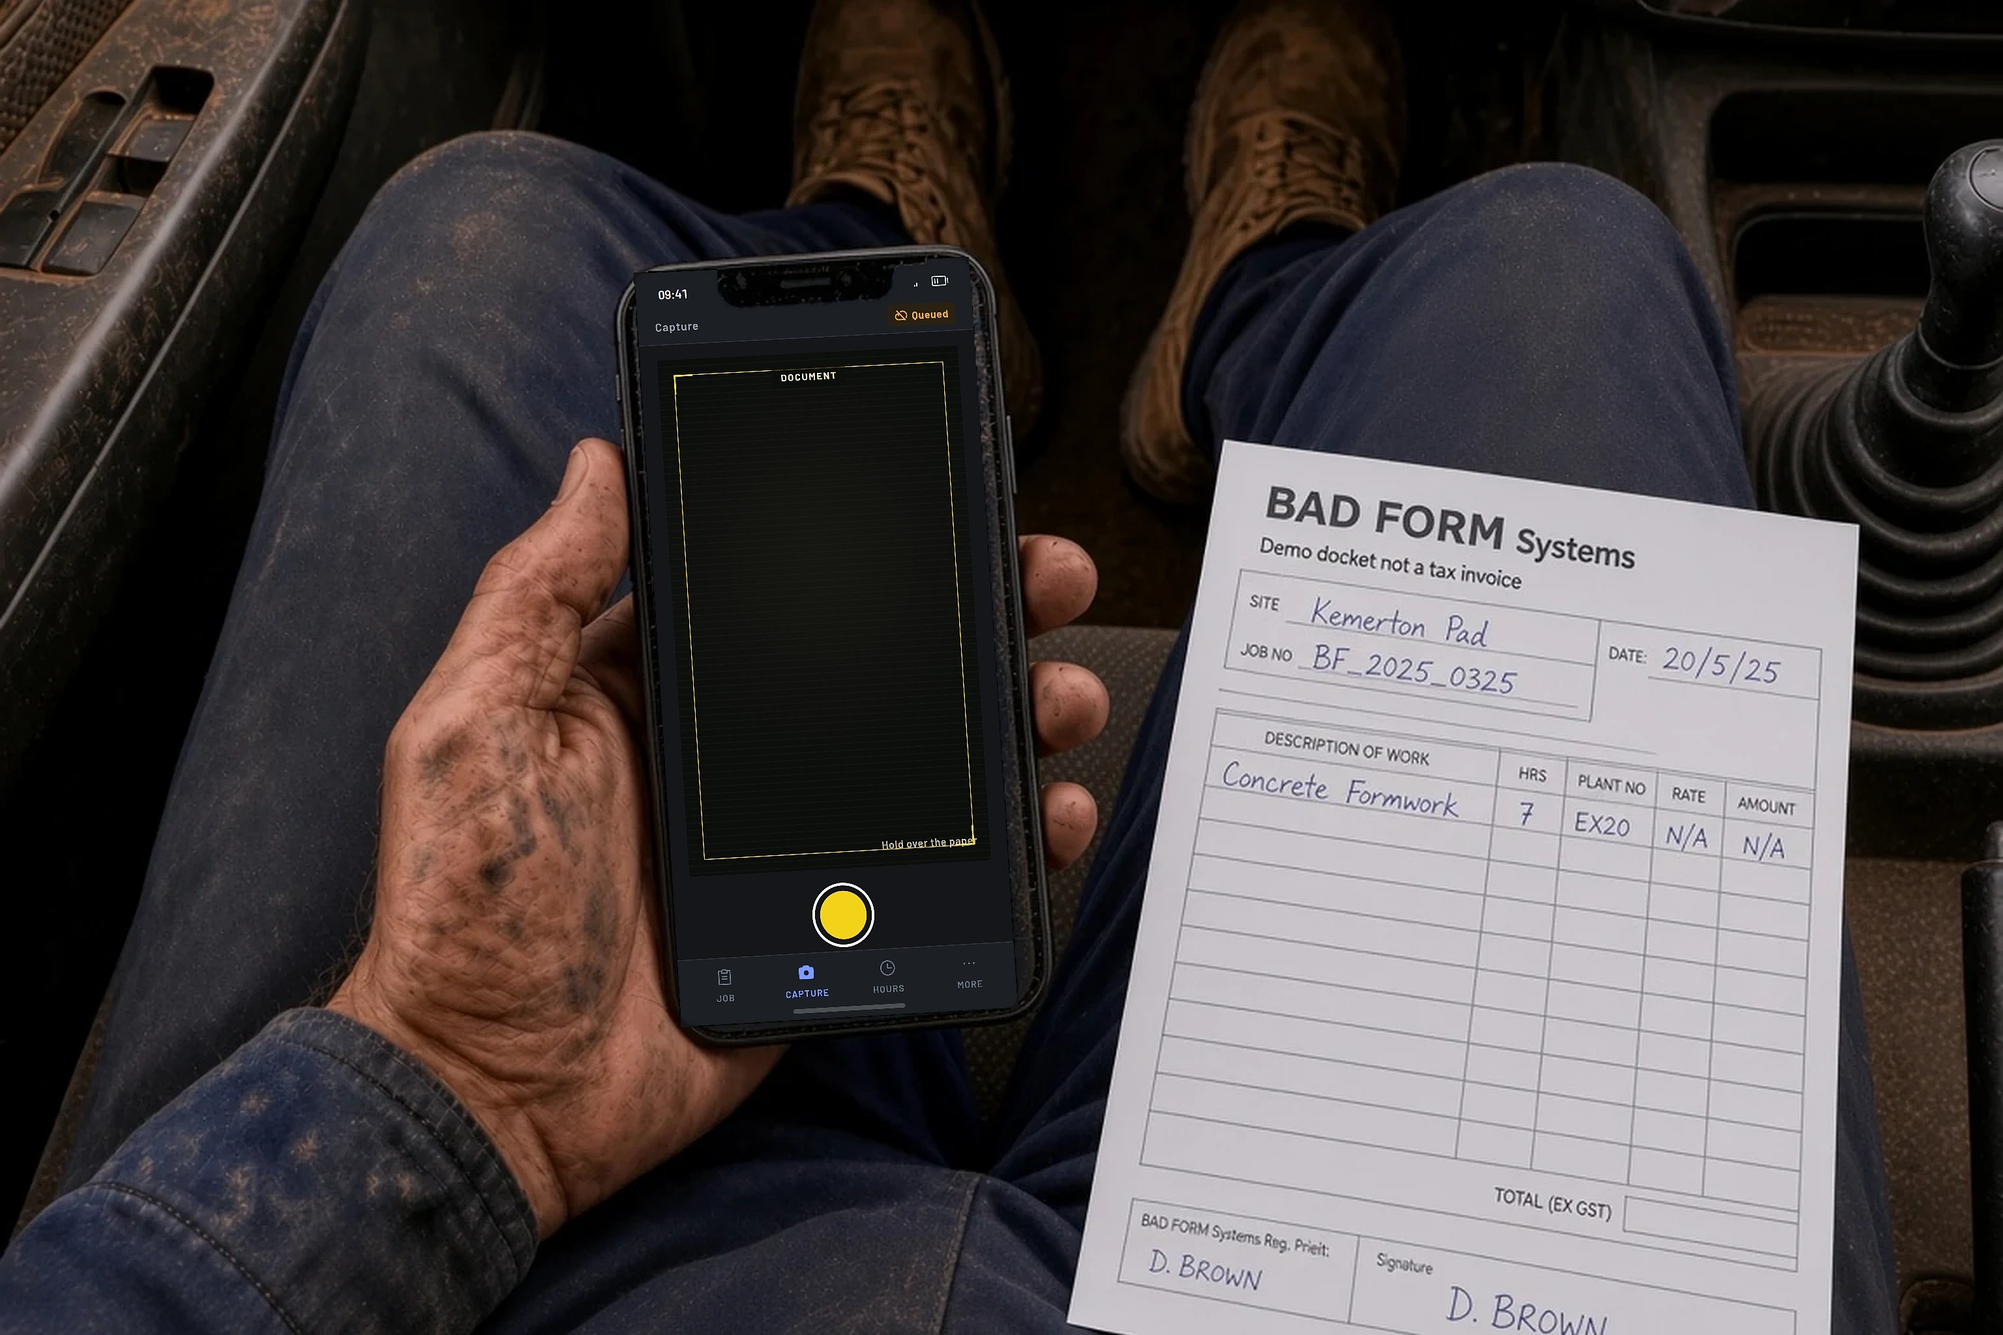
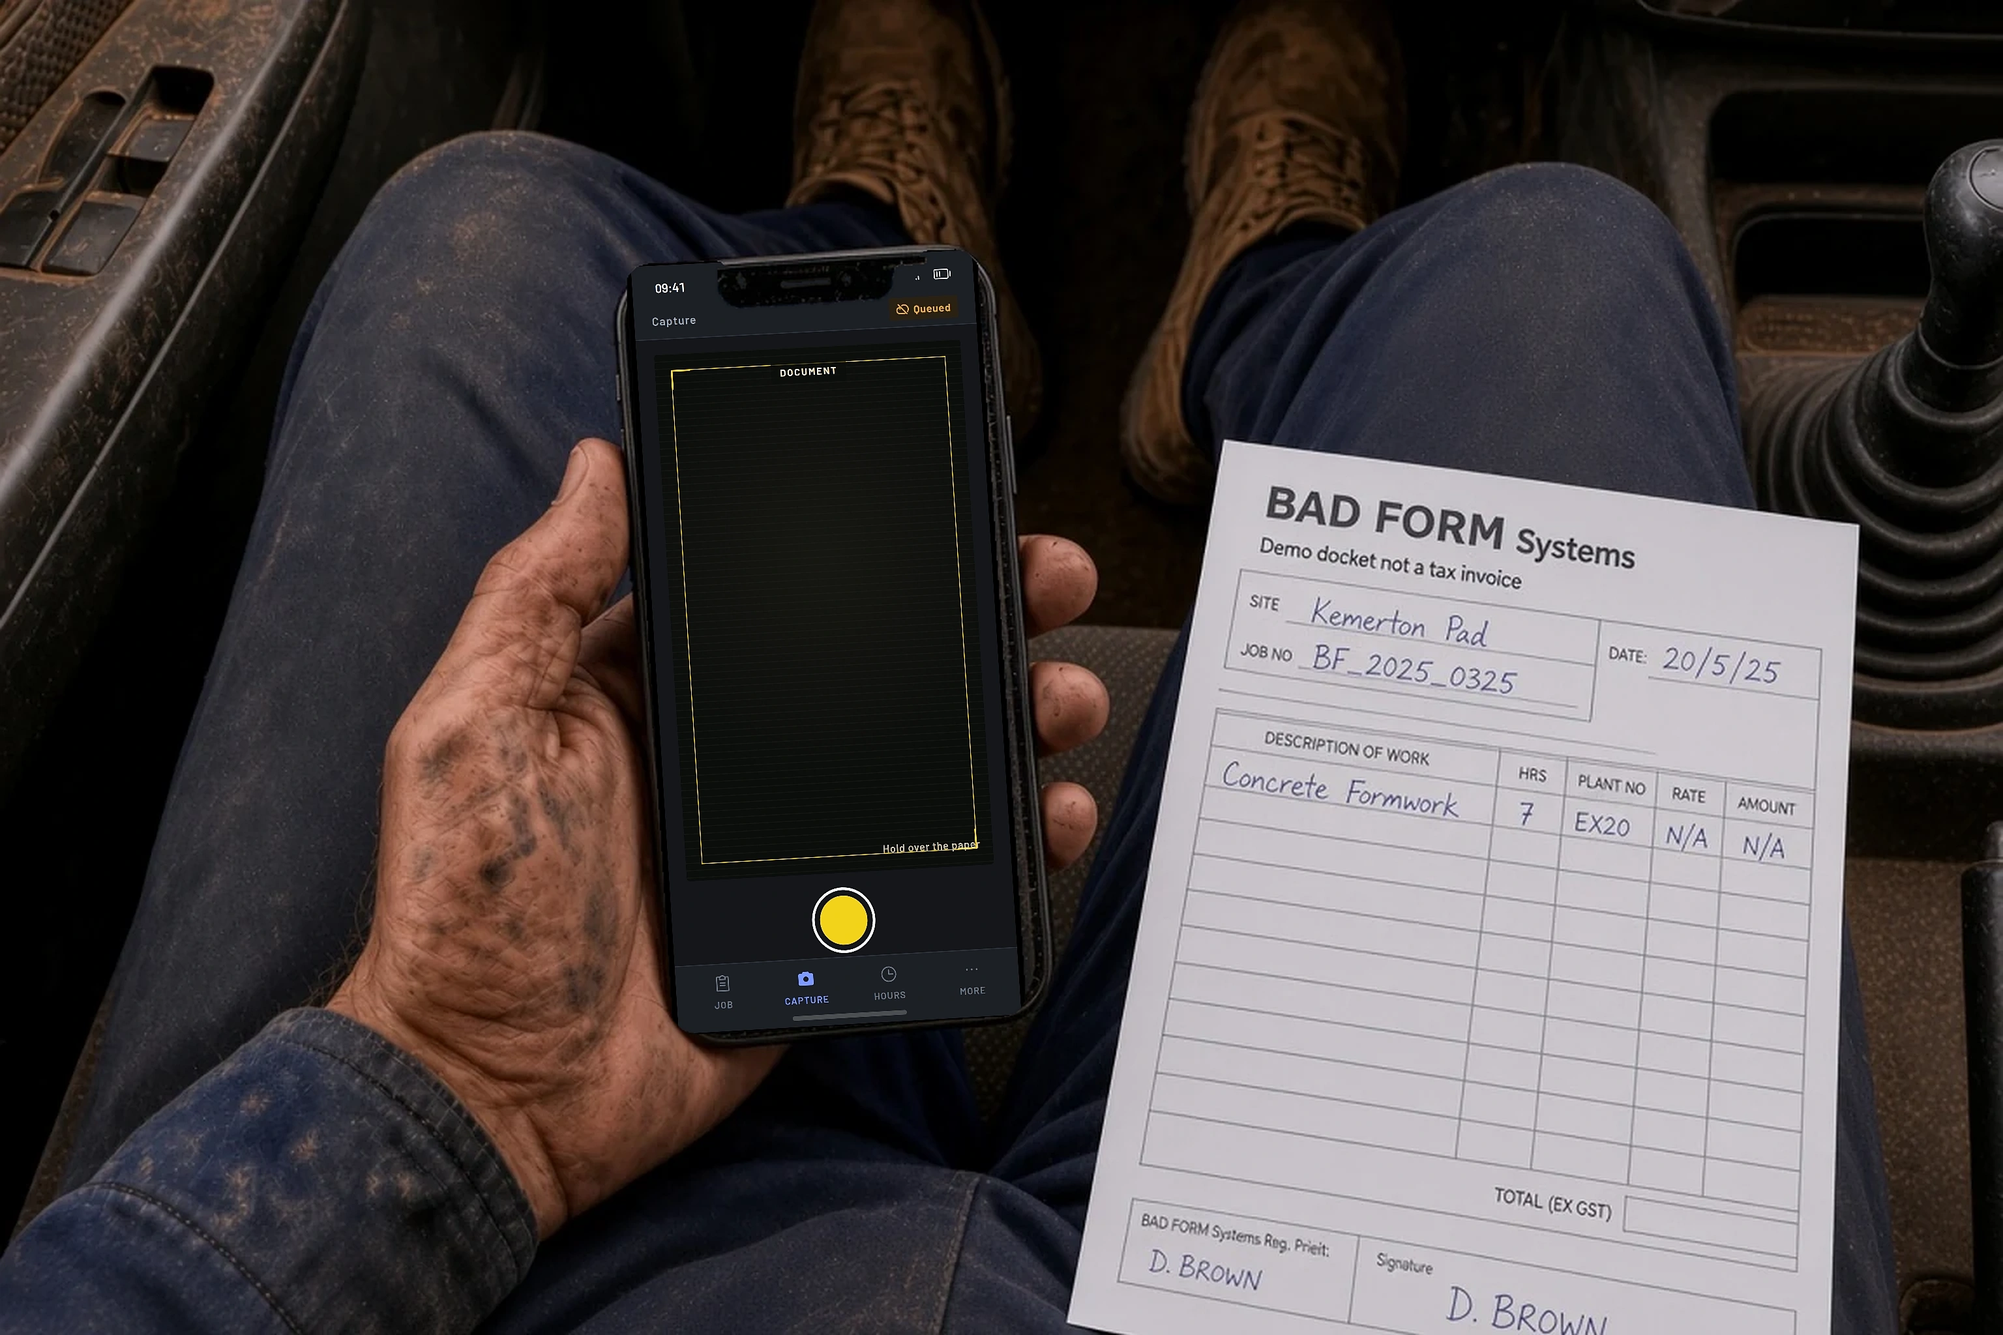
Put Capture in the cab glass and crop the hero onto the sharp phone
The cab composite was sitting inside the photographed screen, so the
viewfinder read as a screenshot pasted in the bezel. Grow the mask to
the glass rim, keep the camera island, and warp to the measured screen.

The hand file was already the sharp pour composite. The hero crop left
that glass at ~300px. Write a phone-centric still so the page shows it.

diff --git a/src/app/globals.css b/src/app/globals.css
@@ -275,11 +275,11 @@ select {
  */
 @media (min-width: 1024px) {
   .still-dissolve {
-    -webkit-mask-image: linear-gradient(to right, transparent, black 20%),
-      linear-gradient(to top, transparent, black 14%);
+    -webkit-mask-image: linear-gradient(to right, transparent, black 6%),
+      linear-gradient(to top, transparent, black 8%);
     -webkit-mask-composite: source-in;
-    mask-image: linear-gradient(to right, transparent, black 20%),
-      linear-gradient(to top, transparent, black 14%);
+    mask-image: linear-gradient(to right, transparent, black 6%),
+      linear-gradient(to top, transparent, black 8%);
     mask-composite: intersect;
     mask-repeat: no-repeat;
   }

diff --git a/src/components/overview/HeroOpen.tsx b/src/components/overview/HeroOpen.tsx
@@ -36,7 +36,7 @@ export function HeroOpen() {
       </div>
 
       <figure
-        className="enter relative aspect-[4/3] w-full overflow-hidden sm:aspect-[16/9] lg:aspect-auto lg:h-full lg:min-h-[34rem] xl:min-h-[38rem]"
+        className="enter relative aspect-[3/4] w-full overflow-hidden sm:aspect-[4/3] lg:aspect-auto lg:h-full lg:min-h-[34rem] xl:min-h-[38rem]"
         style={{ "--enter-delay": "60ms" } as React.CSSProperties}
       >
         {/* eslint-disable-next-line @next/next/no-img-element -- composited still; next/image would re-encode the plate */}

diff --git a/src/content/overview.ts b/src/content/overview.ts
@@ -55,11 +55,11 @@ const cabStill = {
 
 const handStill = {
   src: "/images/field-hand.webp",
-  width: 3072,
-  height: 2048,
+  width: 1165,
+  height: 1803,
   alt: "A work-worn hand holding a phone open to a concrete yard's demo field app: one job, one capture button, and the day's captures underneath.",
   demoNote: "One concrete yard's demo build. Not a live customer job.",
-  objectPositionClass: "object-[62%_38%] lg:object-[58%_40%]",
+  objectPositionClass: "object-[50%_32%]",
 } satisfies OverviewStill;
 
 const officeStill = {

diff --git a/src/content/stills.ts b/src/content/stills.ts
@@ -110,7 +110,7 @@ export const stillPlates: Record<StillSlug, StillPlate> = {
       expand: 0,
     },
     alt: "A work-worn hand holding a phone open to the demo field app built for a concrete yard: one job, one capture button, and the day's captures underneath.",
-    note: "Concrete yard's demo build, in the glass. Not a live customer job.",
+    note: "Concrete yard's demo build, in the glass. Not a live customer job. Homepage file is cropped to the phone so the glass stays readable.",
   },
   desk: {
     slug: "desk",

diff --git a/scripts/composite-phone.py b/scripts/composite-phone.py
@@ -38,6 +38,9 @@ PLATES = {
         "close": 11,
         "dilate": 2,
         "feather": 0.7,
+        # Homepage crop: the 2x plate leaves the glass at ~300px. Cut to the
+        # phone so the sharp composite is what the hero actually shows.
+        "hero_pad": 52,
     },
     "cab": {
         "plate": IMAGES / "plates" / "cab.webp",
@@ -45,12 +48,14 @@ PLATES = {
         "kind": "cab",
         # Screen corners, not the chassis. TL, TR, BL, BR.
         "quad": [(486.4, 209.9), (742.7, 197.1), (522.5, 787.1), (780.1, 772.3)],
-        # Round the trapezoid to the photographed glass. Do not hull, dilate,
-        # or intersect a smaller iPhone rect: that last step mapped the UI
-        # too small inside the glass. Never grow onto the bezel.
+        # Round the trapezoid to the iPhone glass, then grow to the photographed
+        # rim. A smaller mask left the original screen showing around Capture,
+        # which reads as a screenshot pasted inside the phone. Dilate 8 hits
+        # the bezel samples; 6 does not.
         "round": 21,
         "erode": 0,
-        "feather": 0.5,
+        "glass_dilate": 6,
+        "feather": 0.25,
         # Chassis pixels that must stay photograph, not UI.
         "bezel_samples": [(475, 480), (798, 470), (478, 230), (800, 785)],
     },
@@ -272,6 +277,22 @@ def leftover_gold(plate: np.ndarray, result: np.ndarray, mask: np.ndarray) -> in
     return int((was_gold & still_gold & (mask > 127) & band).sum())
 
 
+def cab_rim_original_fraction(result: np.ndarray, plate: np.ndarray, mask: np.ndarray) -> float:
+    inner = cv2.erode(mask, np.ones((7, 7), np.uint8))
+    band = (mask > 127) & (inner == 0)
+    ys, _ = np.where(mask > 127)
+    if len(ys) == 0:
+        return 1.0
+    y0, y1 = int(ys.min()), int(ys.max())
+    h = y1 - y0
+    band[: int(y0 + 0.12 * h)] = False
+    band[int(y0 + 0.88 * h) :] = False
+    if not band.any():
+        return 1.0
+    diff = np.abs(result[band].astype(np.int16) - plate[band].astype(np.int16)).mean(axis=1)
+    return float((diff < 8).mean())
+
+
 def overlay_mask(plate: np.ndarray, mask: np.ndarray, path: Path) -> None:
     vis = plate.copy()
     m = mask > 127
@@ -302,6 +323,29 @@ def upscale(image: np.ndarray, interpolation: int) -> np.ndarray:
     return cv2.resize(image, (width * SCALE, height * SCALE), interpolation=interpolation)
 
 
+def crop_to_glass(result: np.ndarray, mask: np.ndarray, pad: int) -> np.ndarray:
+    """Keep the composited glass the size of the homepage figure.
+
+    The 2x plate is sharp. object-cover on the full 3072x2048 still still
+    draws that glass at ~300px, which is the illegible-photo look.
+    """
+    mask_hi = cv2.resize(
+        mask,
+        (result.shape[1], result.shape[0]),
+        interpolation=cv2.INTER_NEAREST,
+    )
+    ys, xs = np.where(mask_hi > 127)
+    if len(xs) == 0:
+        raise RuntimeError("Glass mask was empty while cropping.")
+    scale = result.shape[0] / 1024
+    pad_px = int(pad * scale)
+    x0 = max(0, int(xs.min()) - pad_px)
+    y0 = max(0, int(ys.min()) - pad_px)
+    x1 = min(result.shape[1], int(xs.max()) + pad_px)
+    y1 = min(result.shape[0], int(ys.max()) + pad_px)
+    return result[y0:y1, x0:x1]
+
+
 def process(
     slug: str,
     ui: np.ndarray,
@@ -324,12 +368,27 @@ def process(
             round_px=cfg["round"],
             erode=cfg["erode"],
         )
+        grow = int(cfg.get("glass_dilate", 0))
+        if grow > 0:
+            mask = cv2.dilate(
+                mask,
+                cv2.getStructuringElement(cv2.MORPH_ELLIPSE, (grow * 2 + 1, grow * 2 + 1)),
+            )
+        if camera is not None:
+            mask[camera > 0] = 0
+        # Expand the measured screen, not the min-area rect of the whole glass.
+        # Mapping onto that rect pulled the status bar over the camera island.
         quad = np.array(cfg["quad"], np.float32)
+        if grow > 0:
+            center = quad.mean(axis=0)
+            for i, point in enumerate(quad):
+                vec = point - center
+                norm = np.linalg.norm(vec)
+                if norm > 0:
+                    quad[i] = point + vec / norm * grow
         dusk = np.array([20, 22, 26], np.uint8)
         painted = plate.copy()
-        hide = cover.copy()
-        if camera is not None:
-            hide[camera > 0] = 0
+        hide = mask.copy()
         painted[hide > 127] = dusk
         plate = painted
         spilled = 0
@@ -353,18 +412,34 @@ def process(
     quad_hi = quad * SCALE
     feather = float(cfg["feather"]) * SCALE
     result = composite(plate_hi, ui, mask_hi, quad_hi, feather)
+    preview = cv2.resize(result, (1536, 1024), interpolation=cv2.INTER_AREA)
 
     if debug_dir:
         debug_dir.mkdir(parents=True, exist_ok=True)
         Image.fromarray(mask).save(debug_dir / f"{slug}-mask.png")
         overlay_mask(load_rgb(cfg["plate"]), mask, debug_dir / f"{slug}-mask-over.png")
-        preview = cv2.resize(
-            result,
-            (1536, 1024),
-            interpolation=cv2.INTER_AREA,
-        )
         Image.fromarray(preview).save(debug_dir / f"{slug}-result.png")
         crop_phone(preview, mask, debug_dir / f"{slug}-phone.png")
+
+    if slug == "hand":
+        blue = leftover_blue(preview, mask)
+        cream = overlay_on_cream(preview, load_rgb(cfg["plate"]))
+        if not skip_checks and blue > 80:
+            raise SystemExit(f"{slug}: original blue UI is still showing ({blue} px).")
+        if not skip_checks and cream > 40:
+            raise SystemExit(f"{slug}: UI landed on the cream sand ({cream} px).")
+        extra = f"leftover-blue={blue} cream-hit={cream}"
+    else:
+        gold = leftover_gold(load_rgb(cfg["plate"]), preview, mask)
+        rim = cab_rim_original_fraction(preview, load_rgb(cfg["plate"]), mask)
+        extra = f"leftover-gold={gold} rim-original={rim:.3f}"
+        if not skip_checks and rim > 0.28:
+            raise SystemExit(
+                f"{slug}: photographed glass still showing at the rim ({rim:.3f})."
+            )
+
+    if cfg["kind"] == "hand" and cfg.get("hero_pad"):
+        result = crop_to_glass(result, mask, int(cfg["hero_pad"]))
 
     if not no_write:
         write_webp(result, cfg["output"])
@@ -374,20 +449,7 @@ def process(
         kb = 0
         dest = "(not written)"
 
-    preview = cv2.resize(result, (1536, 1024), interpolation=cv2.INTER_AREA)
-    if slug == "hand":
-        blue = leftover_blue(preview, mask)
-        cream = overlay_on_cream(preview, load_rgb(cfg["plate"]))
-        print(f"{slug} -> {dest} ({kb} kB) leftover-blue={blue} cream-hit={cream} size={result.shape[1]}x{result.shape[0]}")
-        if not skip_checks and blue > 80:
-            raise SystemExit(f"{slug}: original blue UI is still showing ({blue} px).")
-        if not skip_checks and cream > 40:
-            raise SystemExit(f"{slug}: UI landed on the cream sand ({cream} px).")
-    else:
-        gold = leftover_gold(load_rgb(cfg["plate"]), preview, mask)
-        print(f"{slug} -> {dest} ({kb} kB) leftover-gold={gold} size={result.shape[1]}x{result.shape[0]}")
-        # Capture shutter is stamp yellow in the same lower-glass band as the
-        # original gold chrome. leftover-gold is a report, not a fail.
+    print(f"{slug} -> {dest} ({kb} kB) {extra} size={result.shape[1]}x{result.shape[0]}")
 
 
 def load_uis(specs: list[str], slugs: list[str]) -> dict[str, np.ndarray]:

diff --git a/scripts/check-stills.py b/scripts/check-stills.py
@@ -1,0 +1,129 @@
+#!/usr/bin/env python3
+"""Fail if the shipped phone stills are a sticker (cab) or an unreadably small hero (hand).
+
+Cab: Capture must replace the photographed glass to the bezel. A rim that still
+matches the original plate is the pasted-screenshot look.
+
+Hand: the hero crop must put the glass on screen at a size you can read. The
+2x composite is already sharp; a 90px phone on the page is not.
+"""
+
+from __future__ import annotations
+
+import sys
+from pathlib import Path
+
+import cv2
+import numpy as np
+from PIL import Image
+
+ROOT = Path(__file__).resolve().parents[1]
+IMAGES = ROOT / "public" / "images"
+
+CAB_QUAD = np.array(
+    [[486.4, 209.9], [742.7, 197.1], [522.5, 787.1], [780.1, 772.3]],
+    np.float32,
+)
+# Mid-height glass rim that still matches the original plate. Above this, the
+# new UI is sitting inside the photographed screen instead of replacing it.
+CAB_RIM_ORIGINAL_MAX = 0.28
+
+# Desktop hero figure is half of 1440, min-height 34rem. The glass has to
+# fill that frame the way the sharp walkthrough crop did, not sit at ~300px
+# inside a sand plate.
+HERO_DESKTOP = (720, 608)
+HAND_HERO_PHONE_MIN = 480
+HAND_HERO_POS = (0.50, 0.32)
+
+
+def load_rgb(path: Path) -> np.ndarray:
+    return np.array(Image.open(path).convert("RGB"))
+
+
+def cab_mask(h: int, w: int) -> np.ndarray:
+    cover = np.zeros((h, w), np.uint8)
+    pts = CAB_QUAD[[0, 1, 3, 2]].astype(np.int32)
+    cv2.fillConvexPoly(cover, pts, 255)
+    kernel = cv2.getStructuringElement(cv2.MORPH_ELLIPSE, (21, 21))
+    glass = cv2.morphologyEx(cover, cv2.MORPH_OPEN, kernel)
+    grow = 6
+    return cv2.dilate(
+        glass,
+        cv2.getStructuringElement(cv2.MORPH_ELLIPSE, (grow * 2 + 1, grow * 2 + 1)),
+    )
+
+
+def cab_rim_original_fraction(result: np.ndarray, plate: np.ndarray, mask: np.ndarray) -> float:
+    preview = cv2.resize(result, (plate.shape[1], plate.shape[0]), interpolation=cv2.INTER_AREA)
+    inner = cv2.erode(mask, np.ones((7, 7), np.uint8))
+    band = (mask > 127) & (inner == 0)
+    ys, _ = np.where(mask > 127)
+    y0, y1 = int(ys.min()), int(ys.max())
+    h = y1 - y0
+    band[: int(y0 + 0.12 * h)] = False
+    band[int(y0 + 0.88 * h) :] = False
+    if not band.any():
+        return 1.0
+    diff = np.abs(preview[band].astype(np.int16) - plate[band].astype(np.int16)).mean(axis=1)
+    return float((diff < 8).mean())
+
+
+def cover_window(image: np.ndarray, viewport: tuple[int, int], pos: tuple[float, float]):
+    ih, iw = image.shape[:2]
+    vw, vh = viewport
+    scale = max(vw / iw, vh / ih)
+    left = (iw * scale - vw) * pos[0] / scale
+    top = (ih * scale - vh) * pos[1] / scale
+    return scale, int(left), int(top), int(left + vw / scale), int(top + vh / scale)
+
+
+def glass_width_in_hero(image: np.ndarray, viewport: tuple[int, int], pos: tuple[float, float]) -> float:
+    """Width of the composited glass after the homepage object-cover crop."""
+    dark = (np.mean(image, axis=2) < 70).astype(np.uint8) * 255
+    count, labels, stats, _ = cv2.connectedComponentsWithStats(dark, 8)
+    if count <= 1:
+        return 0.0
+    index = 1 + int(np.argmax(stats[1:, cv2.CC_STAT_AREA]))
+    glass_w = float(stats[index, cv2.CC_STAT_WIDTH])
+    scale, *_ = cover_window(image, viewport, pos)
+    return glass_w * scale
+
+
+def main() -> int:
+    failed = 0
+
+    cab_path = IMAGES / "hero-cab.webp"
+    plate_path = IMAGES / "plates" / "cab.webp"
+    hand_path = IMAGES / "field-hand.webp"
+    for path in (cab_path, plate_path, hand_path):
+        if not path.exists():
+            print(f"FAIL missing {path.relative_to(ROOT)}")
+            return 1
+
+    cab = load_rgb(cab_path)
+    plate = load_rgb(plate_path)
+    mask = cab_mask(plate.shape[0], plate.shape[1])
+    rim = cab_rim_original_fraction(cab, plate, mask)
+    print(f"cab rim original={rim:.3f} max={CAB_RIM_ORIGINAL_MAX}")
+    if rim > CAB_RIM_ORIGINAL_MAX:
+        print(
+            "FAIL cab: photographed glass still showing at the rim. "
+            "Capture is sitting inside the screen, not replacing it."
+        )
+        failed += 1
+
+    hand = load_rgb(hand_path)
+    width = glass_width_in_hero(hand, HERO_DESKTOP, HAND_HERO_POS)
+    print(f"hand hero phone width={width:.1f}px min={HAND_HERO_PHONE_MIN} at {HERO_DESKTOP}")
+    if width < HAND_HERO_PHONE_MIN:
+        print(
+            "FAIL hand: hero crop leaves the field app too small to read. "
+            "The sharp composite is in the file; the page is not showing it."
+        )
+        failed += 1
+
+    return 1 if failed else 0
+
+
+if __name__ == "__main__":
+    sys.exit(main())

diff --git a/docs/homepage-redesign.md b/docs/homepage-redesign.md
@@ -81,9 +81,9 @@ The photographs are plates. The product UI in them is never drawn by an image mo
 
 Laptop glass is a rectangle, so a four-point CSS warp is enough. That is `/lab/composite/desk`, shot by `npm run stills desk`. Those stills stay sharp because the board fills the frame. The board on that still is the generic, unattributed system. The photograph's wall notes must not name the hero's Kemerton job.
 
-iPhone glass is not a rectangle. The hero hand still is still composited the way a retoucher would: `scripts/composite-phone.py` keys the photographed glass (bright blue on white) and warps a screenshot of `PhoneIms` `pour` into that region, at 2x, with no blur on the UI.
+iPhone glass is not a rectangle. The hero hand still is still composited the way a retoucher would: `scripts/composite-phone.py` keys the photographed glass (bright blue on white) and warps a screenshot of `PhoneIms` `pour` into that region, at 2x, with no blur on the UI. The file written for the homepage is then cropped to that phone. The full 3072x2048 plate left the glass at ~300px on the hero, which reads as the old photographed screen.
 
-The cab still uses the original overhead photograph, not a generated plate. `npm run stills cab` warps `PhoneIms` generic Capture (`dusk`, `?view=capture`) into the measured glass quad. Do not replace that plate with an image-model photograph.
+The cab still uses the original overhead photograph, not a generated plate. `npm run stills cab` warps `PhoneIms` generic Capture (`dusk`, `?view=capture`) into the measured glass, grown to the photographed rim and punched around the camera island. A smaller mask left the original screen showing around Capture, which reads as a screenshot pasted inside the phone. Do not replace that plate with an image-model photograph. `python3 scripts/check-stills.py` fails both of those regressions.
 
 Pipeline:
 

diff --git a/.superdesign/design-system.md b/.superdesign/design-system.md
@@ -26,7 +26,8 @@ Working arm of BAD FORM for South West WA trade, civil, fabrication, and fleet o
 
 ## Imagery
 
-- Cab still: `/images/hero-cab.webp` — original cab photograph with generic Capture composited into the glass. Synthetic demo, not a client.
+- Cab still: `/images/hero-cab.webp` — original cab photograph with generic Capture filling the photographed glass. Synthetic demo, not a client.
+- Hand still: `/images/field-hand.webp` — phone-centric crop of the sharp `pour` composite. Synthetic demo.
 - Office still: `/images/office-ims.webp` — laptop jobs dashboard in a yard office. Synthetic demo.
 - Phone and laptop IMS must stay readable. Do not CSS-mirror photos. Do not invent clients, testimonials, or metrics.
 
